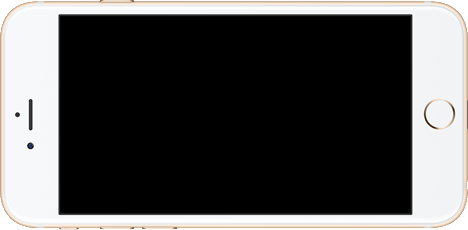
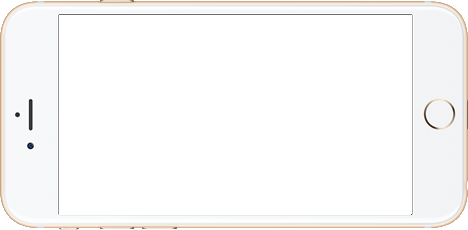
GUI basically working

diff --git a/Assets/Scripts/MainScript.cs b/Assets/Scripts/MainScript.cs
@@ -17,7 +17,8 @@ using UnityEngine.UI;
 // 
 // 800x1280 - 10:16
 
-public class MainScript : MonoBehaviour {
+public class MainScript : MonoBehaviour
+{
 
     private Dropdown mGameBKDropdown;
     private Dropdown mDeviceDropdown;
@@ -31,20 +32,20 @@ public class MainScript : MonoBehaviour {
 
     private List<BackgroundPicture> mLandscapeBackgroundsList = new List<BackgroundPicture>
     {
-        new BackgroundPicture() { isLandscape = true, dislayName = "960x640 (3:2)", resourceName = "bk/landsscape_960x640_bk", ratio = (3f/2f); },
-        new BackgroundPicture() { isLandscape = true, dislayName = "1024x600 (17:10)", resourceName = "bk/landsscape_1024x600_bk", rat },
-        new BackgroundPicture() { isLandscape = true, dislayName = "1024x768 (4:3)", resourceName = "bk/landsscape_1024x768_bk" },
-        new BackgroundPicture() { isLandscape = true, dislayName = "1280x800 (16:10)", resourceName = "bk/landsscape_1280x800_bk" },
-        new BackgroundPicture() { isLandscape = true, dislayName = "1920x1080 (16:9)", resourceName = "bk/landsscape_1920x1080_bk" }
+        new BackgroundPicture() { isLandscape = true, dislayName = "960x640 (3:2)", resourceName = "bk/landsscape_960x640_bk", ratio = (3f/2f) },
+        new BackgroundPicture() { isLandscape = true, dislayName = "1024x600 (17:10)", resourceName = "bk/landsscape_1024x600_bk", ratio = (17f/10f) },
+        new BackgroundPicture() { isLandscape = true, dislayName = "1024x768 (4:3)", resourceName = "bk/landsscape_1024x768_bk" , ratio = (4f/3f) },
+        new BackgroundPicture() { isLandscape = true, dislayName = "1280x800 (16:10)", resourceName = "bk/landsscape_1280x800_bk", ratio = (16f/10f) },
+        new BackgroundPicture() { isLandscape = true, dislayName = "1920x1080 (16:9)", resourceName = "bk/landsscape_1920x1080_bk", ratio = (16f/9f) }
     };
 
     private List<BackgroundPicture> mPortraitBackgroundsList = new List<BackgroundPicture>
     {
-        new BackgroundPicture() { isLandscape = false, dislayName = "640x960 (2:3)", resourceName = "bk/portrait_640x960_bk" },
-        new BackgroundPicture() { isLandscape = false, dislayName = "600x1024 (10:17)", resourceName = "bk/portrait_600x1024_bk" },
-        new BackgroundPicture() { isLandscape = false, dislayName = "768x1024 (3:4)", resourceName = "bk/portrait_768x1024_bk" },
-        new BackgroundPicture() { isLandscape = false, dislayName = "1800x1280 (10:16)", resourceName = "bk/portrait_800x1280_bk" },
-        new BackgroundPicture() { isLandscape = false, dislayName = "1080x1920 (9:16)", resourceName = "bk/portrait_1080x1920_bk" }
+        new BackgroundPicture() { isLandscape = false, dislayName = "640x960 (2:3)", resourceName = "bk/portrait_640x960_bk", ratio = (2f/3f) },
+        new BackgroundPicture() { isLandscape = false, dislayName = "600x1024 (10:17)", resourceName = "bk/portrait_600x1024_bk", ratio = (10f/17f) },
+        new BackgroundPicture() { isLandscape = false, dislayName = "768x1024 (3:4)", resourceName = "bk/portrait_768x1024_bk", ratio = (3f/4f) },
+        new BackgroundPicture() { isLandscape = false, dislayName = "1800x1280 (10:16)", resourceName = "bk/portrait_800x1280_bk", ratio = (10f/16f) },
+        new BackgroundPicture() { isLandscape = false, dislayName = "1080x1920 (9:16)", resourceName = "bk/portrait_1080x1920_bk", ratio = (9f/16f) }
     };
 
     private List<PhoneDetails> mPhoneDetailsList = new List<PhoneDetails>
@@ -55,7 +56,8 @@ public class MainScript : MonoBehaviour {
 
     // x:113, y:35   w:762,h:584
 
-    void Start () {
+    void Start()
+    {
         mDemoGame = GameObject.Find("DemoGame");
         mDemoGameSpriteRenderer = mDemoGame.GetComponent<SpriteRenderer>();
         mDeviceFrame = GameObject.Find("DeviceFrame");
@@ -88,11 +90,17 @@ public class MainScript : MonoBehaviour {
         OnBackgroundImageValueChange(0);
 
     }
-	
-	// Update is called once per frame
-	void Update () {
-	
-	}
+
+    // Update is called once per frame
+    void Update()
+    {
+
+    }
+
+    public void OnFitToGameValueChange(bool isOn)
+    {
+        FitGameToFrame();
+    }
 
     public void OnBackgroundImageValueChange(int newValue)
     {
@@ -184,9 +192,6 @@ public class MainScript : MonoBehaviour {
 
         mDemoGame.transform.localScale = Vector2.one;
 
-        float frameX = mDeviceFrame.GetComponent<SpriteRenderer>().bounds.size.x;
-        float frameY = mDeviceFrame.GetComponent<SpriteRenderer>().bounds.size.y;
-
         float demoGameWidth = mDemoGameSpriteRenderer.bounds.size.x;
         float demoGameHeight = mDemoGameSpriteRenderer.bounds.size.y;
 
@@ -202,13 +207,19 @@ public class MainScript : MonoBehaviour {
         {
             if (isInLandscape)
             {
-                xScale = ((isInLandscape ? mCurrentDevice.width : mCurrentDevice.height) / 100f) / demoGameWidth;
-                mLandscapeBackgroundsList[mGameBKDropdown.value].;
+                xScale = (mCurrentDevice.width / 100f) / demoGameWidth;
+                float widthSize = mDemoGameSpriteRenderer.bounds.size.x * xScale;
+                float newHeightSize = widthSize / mLandscapeBackgroundsList[mGameBKDropdown.value].ratio;
+                float currentHeightSize = mDemoGameSpriteRenderer.bounds.size.y;
+                yScale = newHeightSize / currentHeightSize;
             }
             else
             {
-                yScale = ((isInLandscape ? mCurrentDevice.height : mCurrentDevice.width) / 100f) / demoGameHeight;
-                xScale = 1;
+                yScale = (mCurrentDevice.width / 100f) / demoGameHeight;
+                float heightSize = mDemoGameSpriteRenderer.bounds.size.y * yScale;
+                float newWidthSize = heightSize * mPortraitBackgroundsList[mGameBKDropdown.value].ratio;
+                float currentWidthSize = mDemoGameSpriteRenderer.bounds.size.x;
+                xScale = newWidthSize / currentWidthSize;
             }
         }
 
